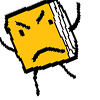
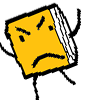
Enemies now have attack animations and towers can now die

diff --git a/src/Enemy.java b/src/Enemy.java
@@ -1,4 +1,3 @@
-import java.awt.geom.AffineTransform;
 import java.awt.image.*;
 import java.awt.*;
 import javax.imageio.*;
@@ -17,19 +16,19 @@ public class Enemy {
     protected int scaledWidth, scaledHeight;
     protected long lastAttackTime = (long) (System.nanoTime() / (Math.pow(10, 9)));
     protected boolean attack = false;
-    protected double lastImageChangeTime = (double) (System.nanoTime() / (Math.pow(10, 9)));
-    protected int imageChangeIndex = 1;
-    protected double imageChangeCoolDown = 0.5;
-    protected AffineTransform untransformedImage = null;
-    protected boolean isFirstImage = true;
+    protected double lastImageChangeTime = (System.nanoTime() / (Math.pow(10, 9)));
+    protected int imageChangeIndex = 0;
+    protected double imageChangeCoolDown = 0.3;
     protected Grid occupiedGrid = null;
-    protected BufferedImage image = null;
+    protected BufferedImage[] images = new BufferedImage[4];
     protected Map map;
     protected Grid[][] grids;
 
     public Enemy(String type, Map map) {
         Random random = new Random();
         String imagePath = "res\\monsters\\" + type + ".png";
+        String imagel1Path = "res\\monsters\\" + type + "_l1.png";
+        String imager1Path = "res\\monsters\\" + type + "_r1.png";
         // String imagePath = "../res/monsters/" + type + ".png";
         int row = random.nextInt(1, 6);
         if (type.equals("paper")) {
@@ -70,12 +69,15 @@ public class Enemy {
             this.scale = 1.0;
         }
         try {
-            this.image = ImageIO.read(new File(imagePath));
+            this.images[0] = ImageIO.read(new File(imagePath));
+            this.images[1] = ImageIO.read(new File(imagel1Path));
+            this.images[2] = ImageIO.read(new File(imagePath));
+            this.images[3] = ImageIO.read((new File(imager1Path)));
         } catch (IOException e) {
             System.out.println("Error loading image: \n" + e);
         }
-        this.scaledWidth = (int) (this.image.getWidth() * this.scale);
-        this.scaledHeight = (int) (this.image.getHeight() * this.scale);
+        this.scaledWidth = (int) (this.images[0].getWidth() * this.scale);
+        this.scaledHeight = (int) (this.images[0].getHeight() * this.scale);
         this.y = (int) (Map.getMapStartY() + (((row - 1) * Grid.getWidth()) + (Grid.getWidth() / 2) - (this.scaledHeight / 2)));
         this.map = map;
         this.grids = map.getGrids();
@@ -172,36 +174,20 @@ public class Enemy {
     }
 
     public void paint(Graphics2D g2d) {
-        if (isFirstImage) {
-            this.untransformedImage = g2d.getTransform();
-            this.isFirstImage = false;
-        }
-        if (this.attack) { // this DOESN'T WORK! We need an array of images to do sprite instead
-            double currentTime = (double) (System.nanoTime() / (Math.pow(10, 9)));
+        g2d.drawImage(this.images[this.imageChangeIndex], (int) this.x, (int) this.y, this.scaledWidth, this.scaledHeight, null);
+        if (this.attack) {
+            double currentTime = (System.nanoTime() / (Math.pow(10, 9)));
             if (currentTime - this.lastImageChangeTime >= this.imageChangeCoolDown) {
-                System.out.println("Switch");
-                if (this.imageChangeIndex == 1) {
-                    g2d.setTransform(this.untransformedImage);
-                    g2d.rotate(Math.toRadians(30));
+                if (this.imageChangeIndex <= 2) {
+                    System.out.println(this.imageChangeIndex);
                     this.imageChangeIndex++;
-                } else if (this.imageChangeIndex == 2) {
-                    g2d.setTransform(this.untransformedImage);
-                    this.imageChangeIndex++;
-                } else if (this.imageChangeIndex == 3) {
-                    g2d.setTransform(this.untransformedImage);
-                    g2d.rotate(Math.toRadians(-30));
-                    this.imageChangeIndex++;
-                } else if (this.imageChangeIndex == 4) {
-                    g2d.setTransform(this.untransformedImage);
-                    this.imageChangeIndex = 1;
+                } else {
+                    this.imageChangeIndex = 0;
                 }
                 this.lastImageChangeTime = currentTime;
             }
-            g2d.drawImage(this.image, (int) this.x, (int) this.y, this.scaledWidth, this.scaledHeight, null);
         } else {
-            g2d.setTransform(this.untransformedImage);
-            this.imageChangeIndex = 1;
-            g2d.drawImage(this.image, (int) this.x, (int) this.y, this.scaledWidth, this.scaledHeight, null);
+            this.imageChangeIndex = 0;
         }
     }
 

diff --git a/src/Level.java b/src/Level.java
@@ -12,15 +12,35 @@ public class Level {
     private int enemiesSpawnedBetweenWaves = 0;
     private int enemiesSpawnedDuringWave = 0;
     private long startTime = (long) (System.nanoTime() / (Math.pow(10, 9)));
+    private boolean spawn = true;
+    private int betweenWavesSpawnCoolDown = 20;
     private Map map = new Map();
     private static ArrayList<Enemy> enemies = new ArrayList<Enemy>();
     private static ArrayList<Tower> towers = new ArrayList<Tower>();
 
+    public Level() {
+        int[] what = {8, 1};
+        MechanicalPencil p = new MechanicalPencil(what);
+        towers.add(p);
 
+        int[] what2 = {8, 2};
+        MechanicalPencil p2 = new MechanicalPencil(what2);
+        towers.add(p2);
 
-    public Level(){
+        int[] what3 = {8, 3};
+        MechanicalPencil p3 = new MechanicalPencil(what3);
+        towers.add(p3);
+
+        int[] what4 = {8, 4};
+        MechanicalPencil p4 = new MechanicalPencil(what4);
+        towers.add(p4);
+
+        int[] what5 = {8, 5};
+        MechanicalPencil p5 = new MechanicalPencil(what5);
+        towers.add(p5);
+
 //        int[] what = {5,1};
-//        Shredder p = new Shredder(what);
+//        MechanicalPencil p = new MechanicalPencil(what);
 //        towers.add(p);
 //
 //        int[] what2 = {5,2};
@@ -42,38 +62,11 @@ public class Level {
 //        int[] what6 = {6 , 1};
 //        Eraser p6 = new Eraser(what6);
 //        towers.add(p6);
-
-        int[] what = {5,1};
-        MechanicalPencil p = new MechanicalPencil(what);
-        towers.add(p);
-
-        int[] what2 = {5,2};
-        Shredder p2 = new Shredder(what2);
-        towers.add(p2);
-
-        int[] what3 = {5,3};
-        Shredder p3 = new Shredder(what3);
-        towers.add(p3);
-
-        int[] what4 = {5,4};
-        Shredder p4 = new Shredder(what4);
-        towers.add(p4);
-
-        int[] what5 = {5,5};
-        Shredder p5 = new Shredder(what5);
-        towers.add(p5);
-
-        int[] what6 = {6 , 1};
-        Eraser p6 = new Eraser(what6);
-        towers.add(p6);
-
-        int[] what7 = {4 , 1};
-        Pencil p7 = new Pencil(what7);
-        towers.add(p7);
+//
+//        int[] what7 = {4 , 1};
+//        Pencil p7 = new Pencil(what7);
+//        towers.add(p7);
     }
-
-    private boolean spawn = true;
-    private int betweenWavesSpawnCoolDown = 20;
 
     public void checkCollisions() {
         ArrayList<Weapon> projs = Tower.getProjectiles();
@@ -83,8 +76,8 @@ public class Level {
                 Enemy en = enemies.get(j);
                 if (Geometry.isColliding(proj.getX(), proj.getY(), 20, 50, en.getX(), en.getY(), en.getWidth(), en.getHeight())) {
                     System.out.println("COLLISION DETECTED");
-                    en.takeHit(proj.getDamage());
                     System.out.println(en.getHitPoints());
+                    en.takeHit(proj.getDamage());
                     if (!proj.getPenetrate()) {
                         proj.setDelete();
                     }
@@ -120,13 +113,22 @@ public class Level {
             if (enemies.get(i).getHitPoints() <= 0) {
                 enemies.remove(i);
             } else {
-                i += 1;
+                i++;
             }
         }
 
-        for (int j = 0;j<towers.size();j++){
+        for (int j = 0; j < towers.size(); j++) {
             Tower tow = towers.get(j);
             tow.incFiredCounter();
+        }
+
+        i = 0;
+        while (i < towers.size()) {
+            if (towers.get(i).getHitPoints() <= 0) {
+                towers.remove(i);
+            } else {
+                i++;
+            }
         }
 
 //        ArrayList<Weapon> projs = Tower.getProjectiles();

diff --git a/src/Tower.java b/src/Tower.java
@@ -10,19 +10,12 @@ public abstract class Tower {
     protected int hitPoints;
     protected int lastFired = 1000000000;
     protected static ArrayList<Weapon> projectiles = new ArrayList<Weapon>();
-//    protected static ArrayList<Tower> towers = new ArrayList<Tower>();
-
-    //        private static projectiles
     protected int cost;
-    protected int x, y; //store its position as a grid
-
+    protected int x, y; // store its position as a pixel coordinate
     protected int range = 10;
     protected int[] coordinate;
-
     protected BufferedImage image = null;
-
     protected BufferedImage image2 = null;
-
     protected int scaledWidth, scaledHeight;
     protected double scale;
 
@@ -67,29 +60,27 @@ public abstract class Tower {
 ////        }
 //    }
 
-    public static void moveProjectiles(){
-        for (int i = 0; i<projectiles.size();i++){
+    public static void moveProjectiles() {
+        for (int i = 0; i < projectiles.size(); i++){
             projectiles.get(i).behave();
         }
     }
 
-    public static void deletionCheck(){
+    public static void deletionCheck() {
         int i = 0;
-        while (i<projectiles.size()){
+        while (i < projectiles.size()) {
             Weapon p = projectiles.get(i);
-            if (p.getDelete() || p.outOfBounds()){
+            if (p.getDelete() || p.outOfBounds()) {
                 projectiles.remove(i);
-            }
-            else{
+            } else {
                 i += 1;
             }
         }
     }
 
-
     public abstract void attack();
 
-    public void takeHit(int damage){
+    public void takeHit(int damage) {
         hitPoints -= damage;
     }
 
@@ -97,12 +88,16 @@ public abstract class Tower {
         return projectiles;
     }
 
-    public int getRange(){
-        return range;
+    public int getRange() {
+        return this.range;
     }
 
-    public void incFiredCounter(){
-        lastFired += 1;
+    public int getHitPoints() {
+        return this.hitPoints;
+    }
+
+    public void incFiredCounter() {
+        this.lastFired += 1;
     }
 
     public void paint(Graphics2D g2d) {

diff --git a/src/Pencil.java b/src/Pencil.java
@@ -27,7 +27,7 @@ public class Pencil extends Tower {
     }
 
     public void attack() {
-        if (lastFired >= 50 * attackDelay){
+        if (lastFired >= 50 * attackDelay) {
             Weapon weapon = new Weapon("pencil", x, y, this);
             projectiles.add(weapon);
             lastFired = 0;
@@ -37,7 +37,7 @@ public class Pencil extends Tower {
     }
 
     public void paint(Graphics2D g2d) {
-        if (lastFired >= 50 * attackDelay - 10){ //ready to attack
+        if (lastFired >= 50 * attackDelay - 10) { //ready to attack
             g2d.drawImage(this.image, x, y, this.scaledWidth, this.scaledHeight, null);
         } else { //not ready to attack
             g2d.drawImage(this.image2, x, y, this.scaledWidth, this.scaledHeight, null);
